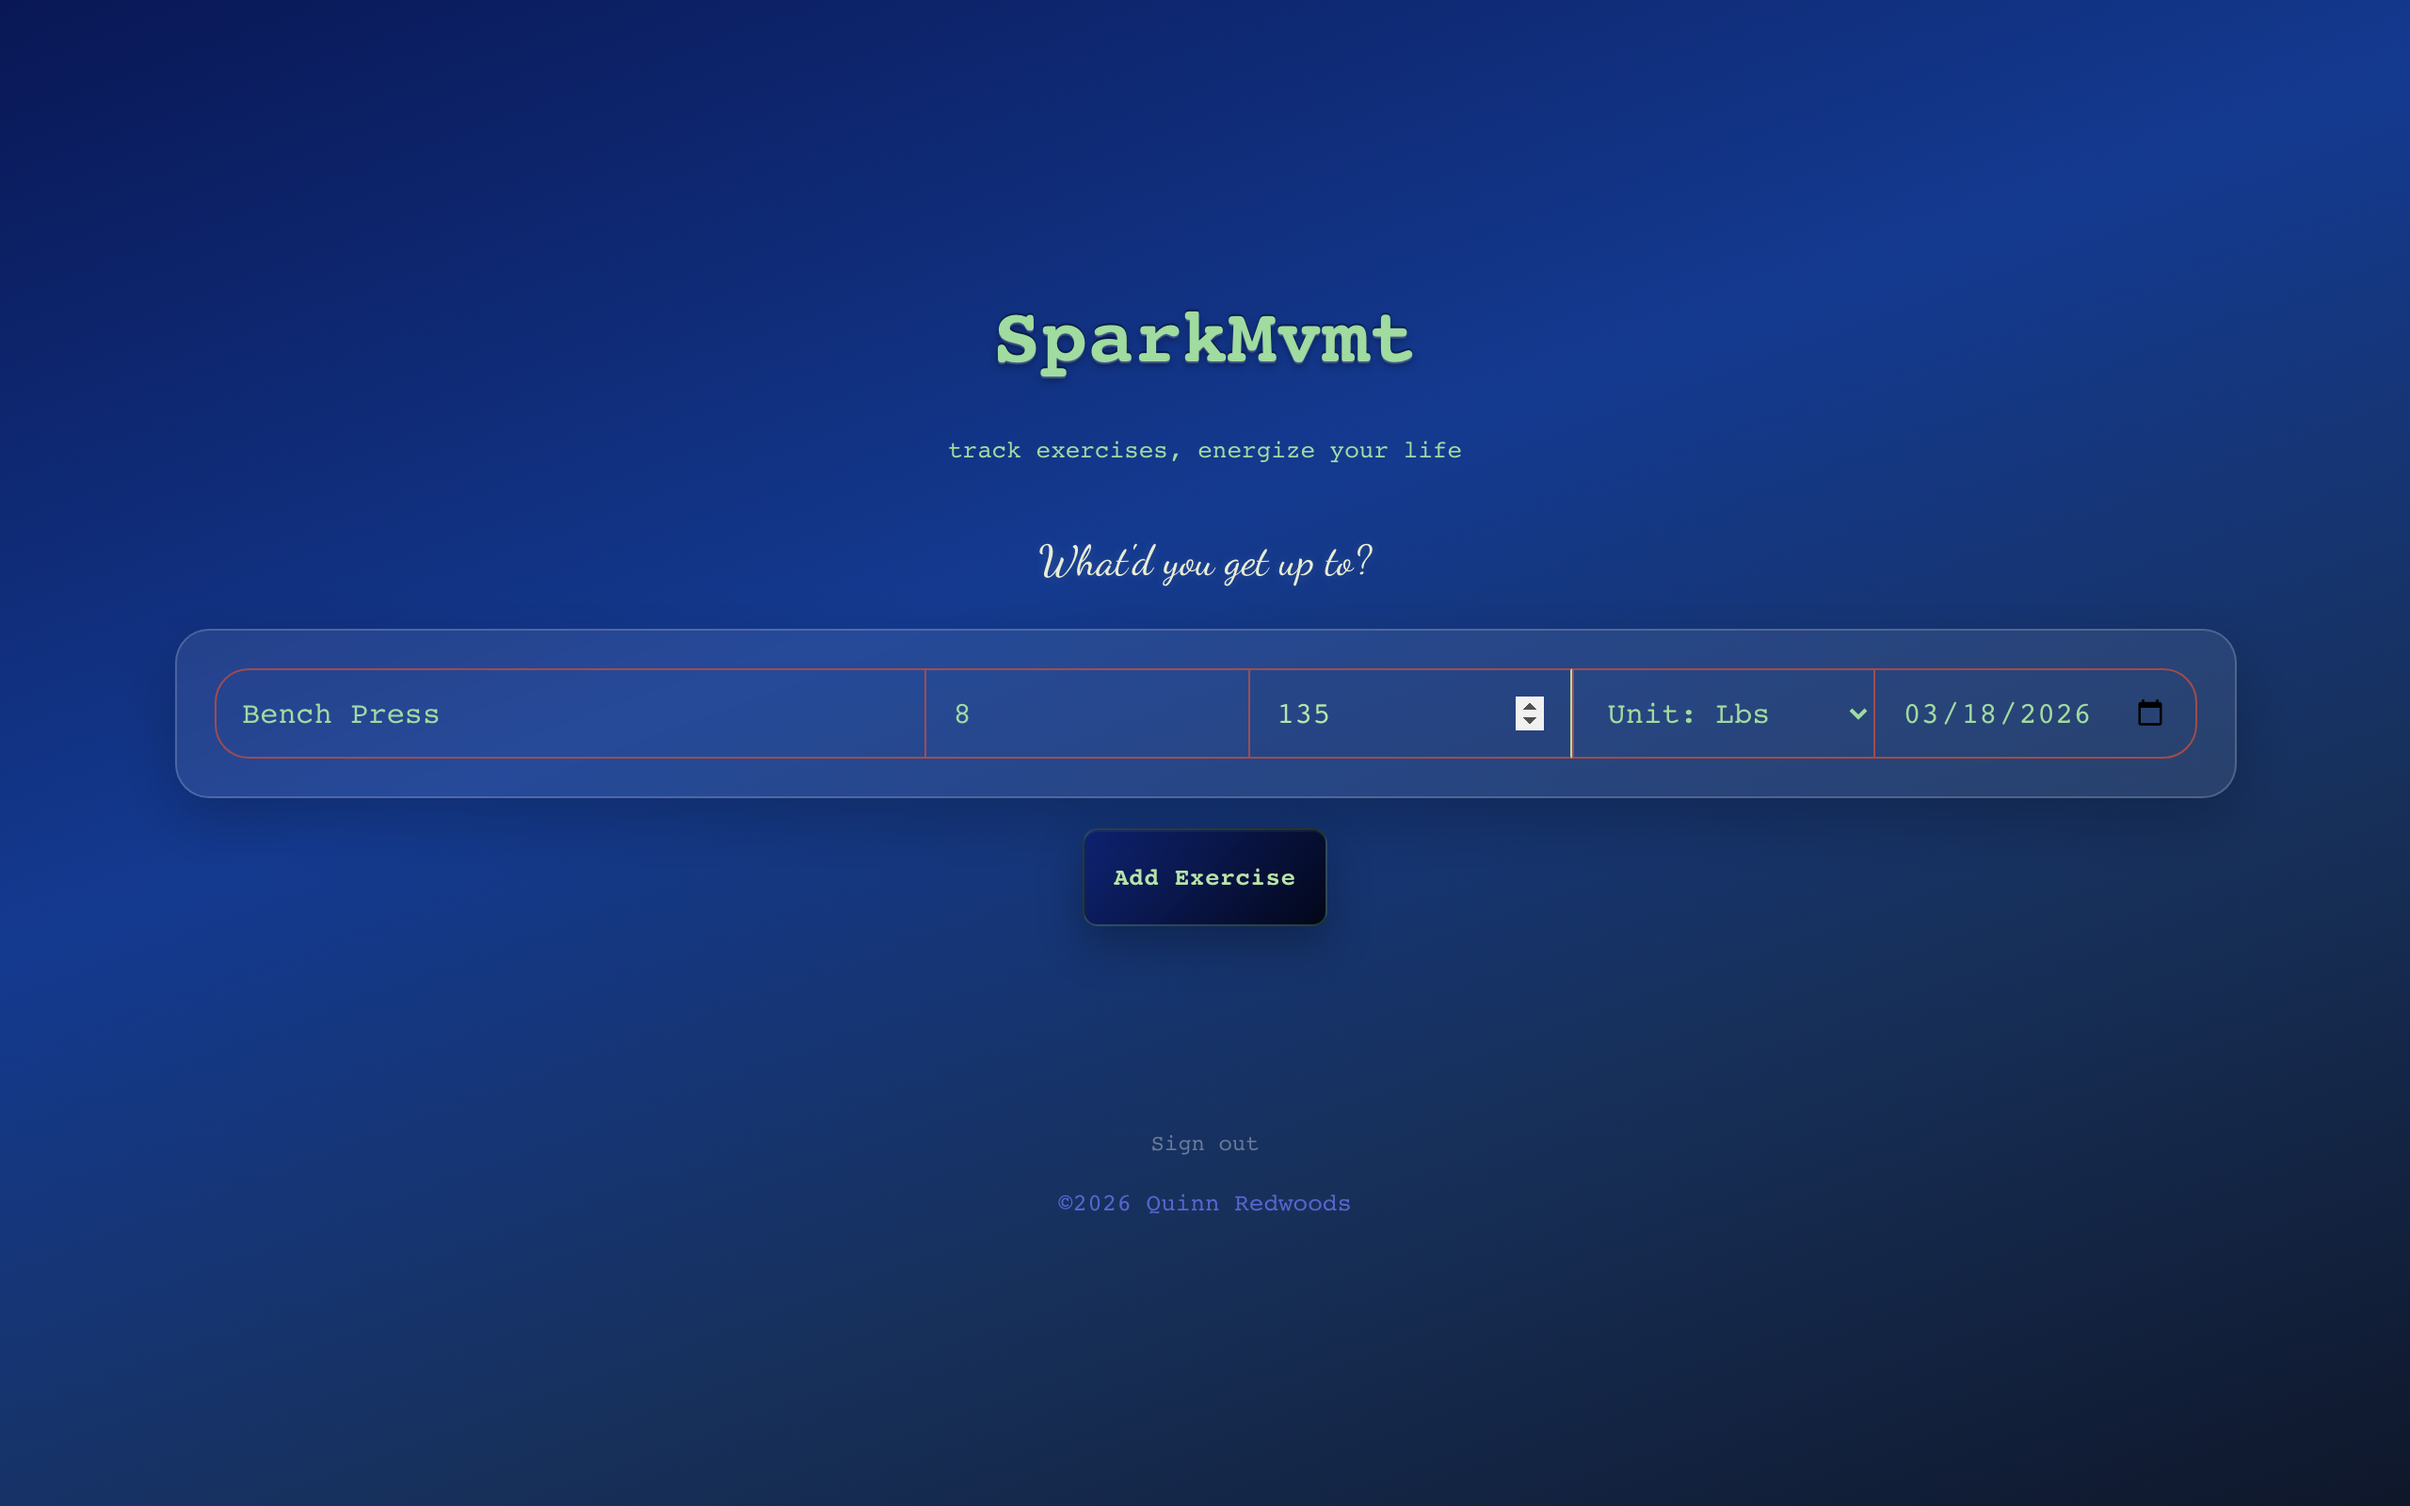
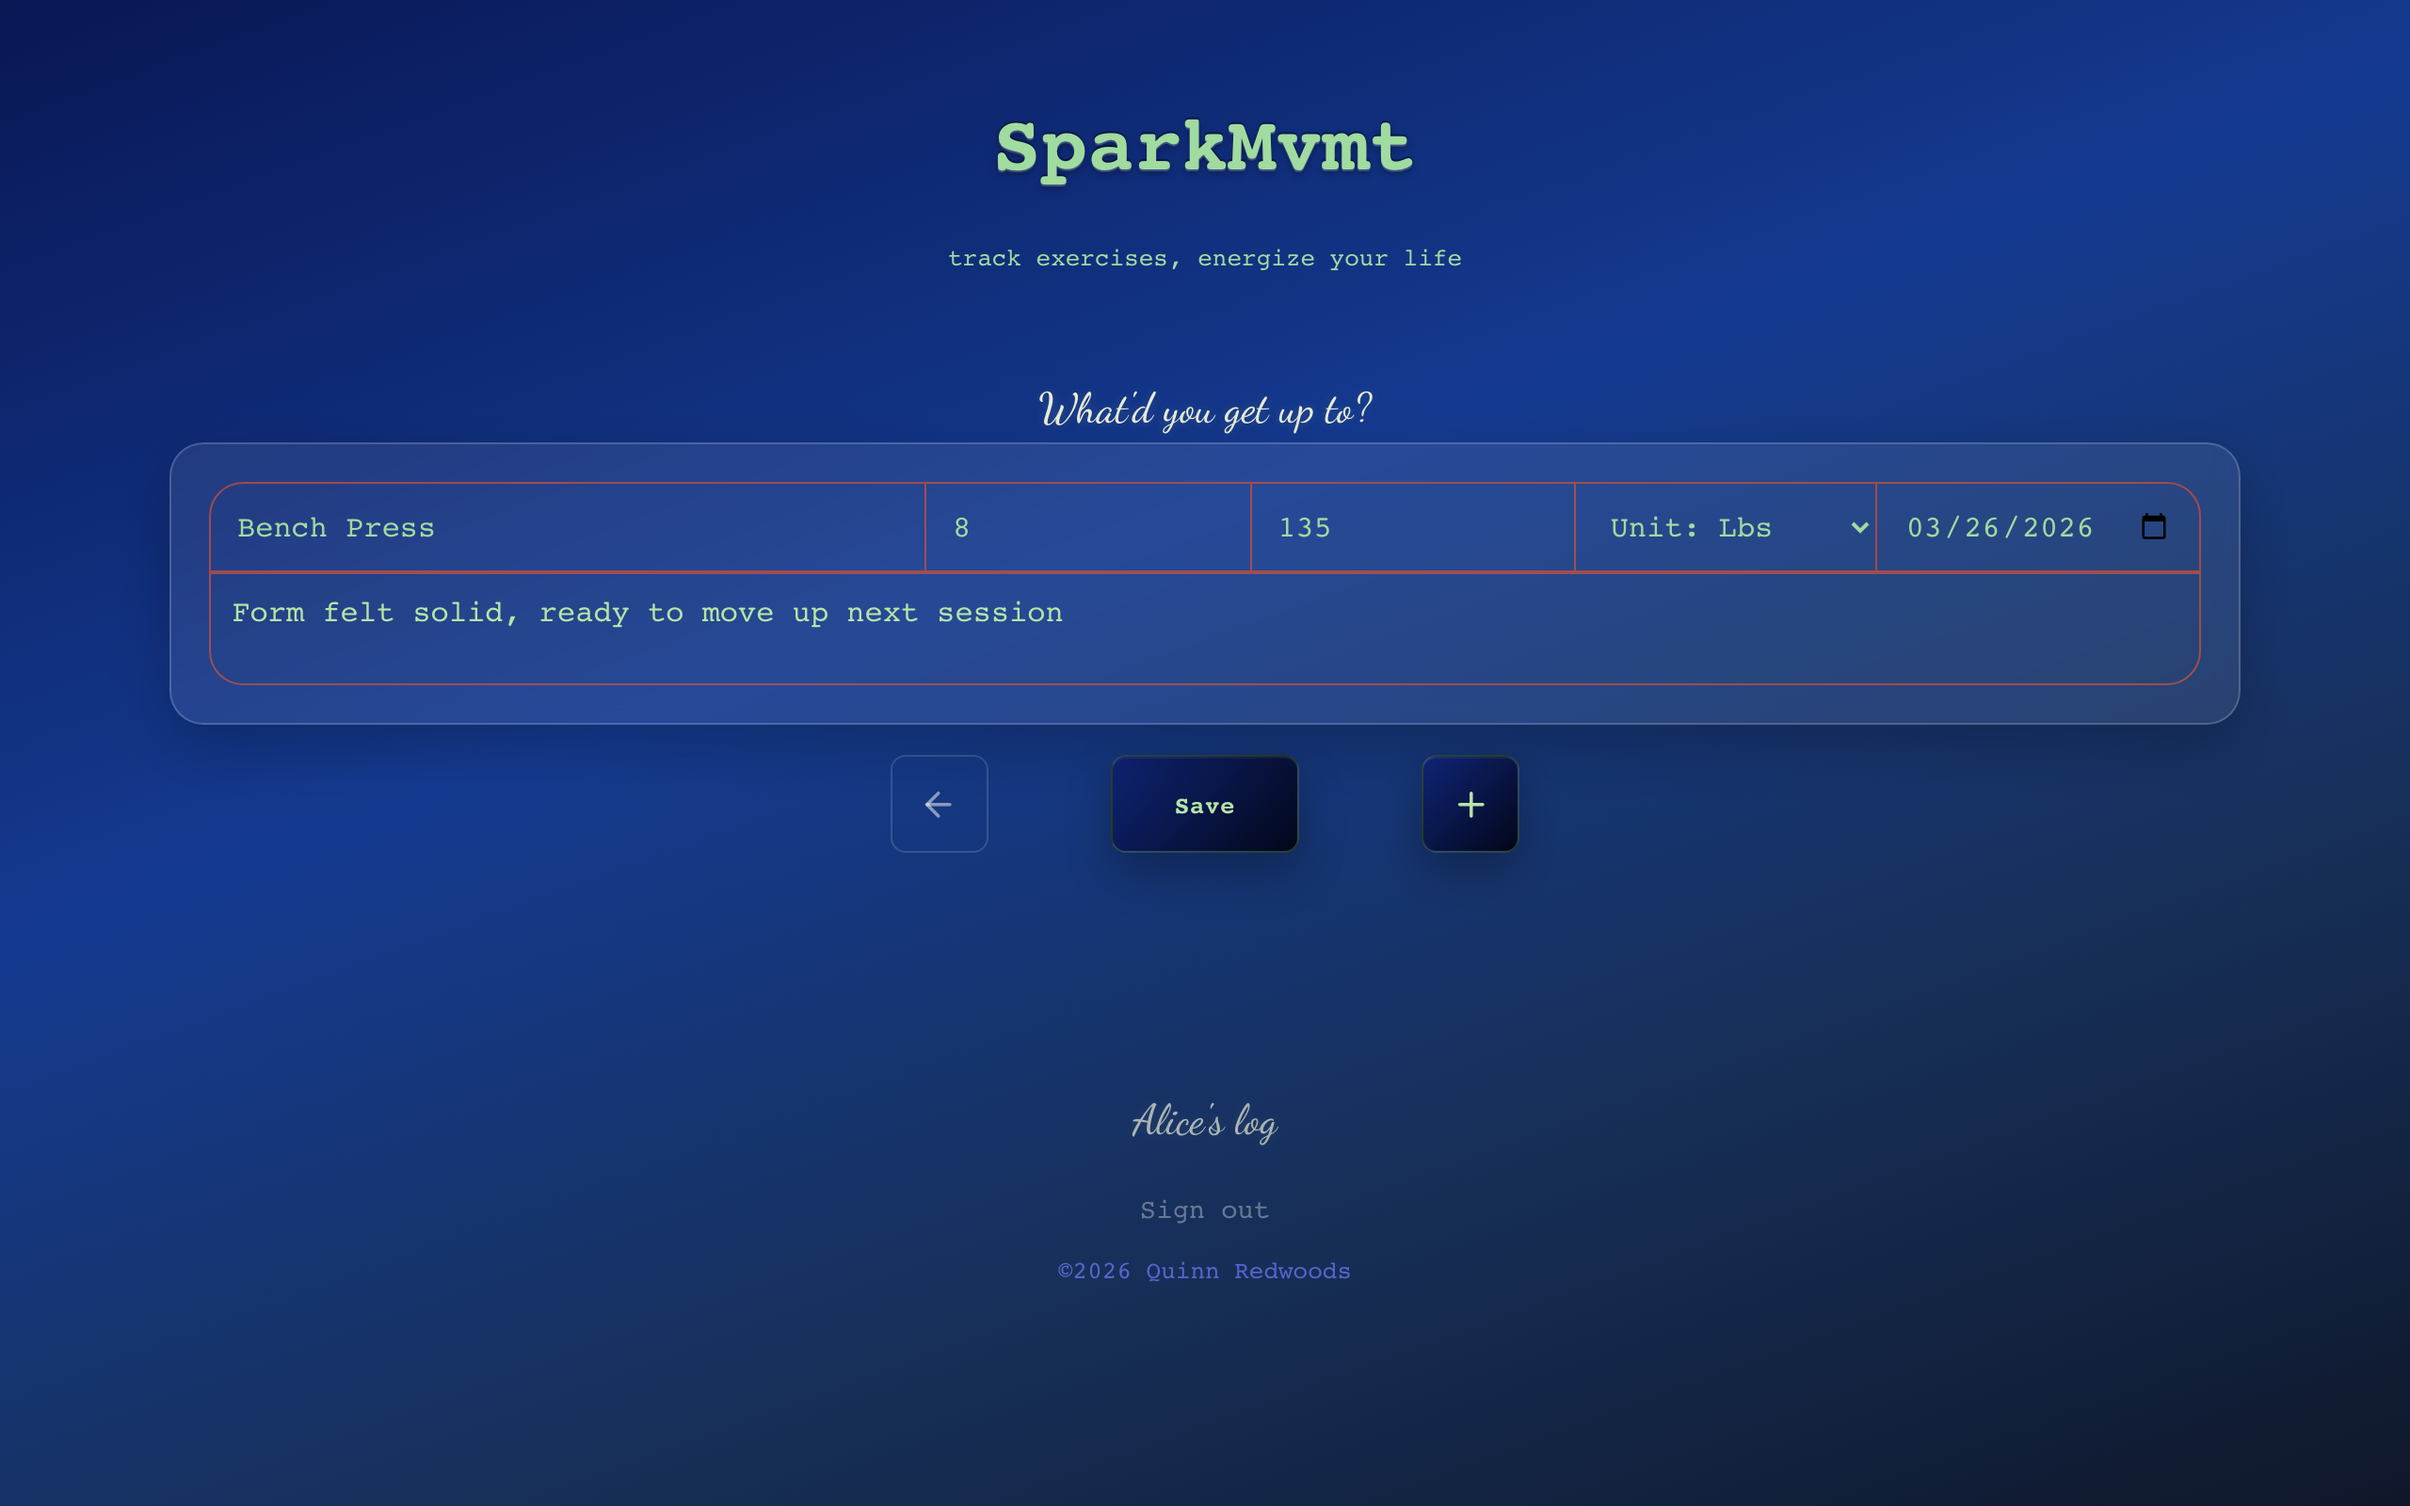
Update screenshots, center form, responsive unit display
- Center exercise form (margin auto)
- Small screens: "lbs" → "lb", "kgs" → "kg" via CSS
- Refresh all README screenshots

diff --git a/frontend/src/components/ExerciseRow.jsx b/frontend/src/components/ExerciseRow.jsx
@@ -38,7 +38,7 @@ const ExerciseRow = ({ exercise, onDelete, onEdit, onDuplicate, onView, highligh
     <tr className={className} onClick={() => onView(exercise)} onAnimationEnd={highlight ? onHighlightEnd : undefined}>
       <td className={flashField === "name" ? "sort-col-flash" : ""}>{name}</td>
       <td>{reps}</td>
-      <td>{isBodyweight ? "BW" : `${weight} ${unit}`}</td>
+      <td>{isBodyweight ? "BW" : <>{weight}<span className="unit-label" data-short={unit.slice(0, -1)}> {unit}</span></>}</td>
       <td className={flashField === "date" ? "sort-col-flash" : ""}>{formatDisplayDate(date)}</td>
 
       <td onClick={(e) => e.stopPropagation()}>

diff --git a/frontend/src/App.css b/frontend/src/App.css
@@ -479,7 +479,7 @@ footer .copyright {
 .exercise-form {
   width: min(1100px, 100%);
   max-width: min(92vw, 100vw - 6em - 2rem);
-  margin: 1rem;
+  margin: 1rem auto;
   margin-top: .6rem;
   padding: 20px;
   display: flex;
@@ -999,6 +999,14 @@ footer .copyright {
   }
   .date-numeric {
     display: inline;
+  }
+  .unit-label {
+    font-size: 0;
+  }
+  .unit-label::before {
+    font-size: 0.75rem;
+    content: attr(data-short);
+    margin-left: 2px;
   }
 }
 
